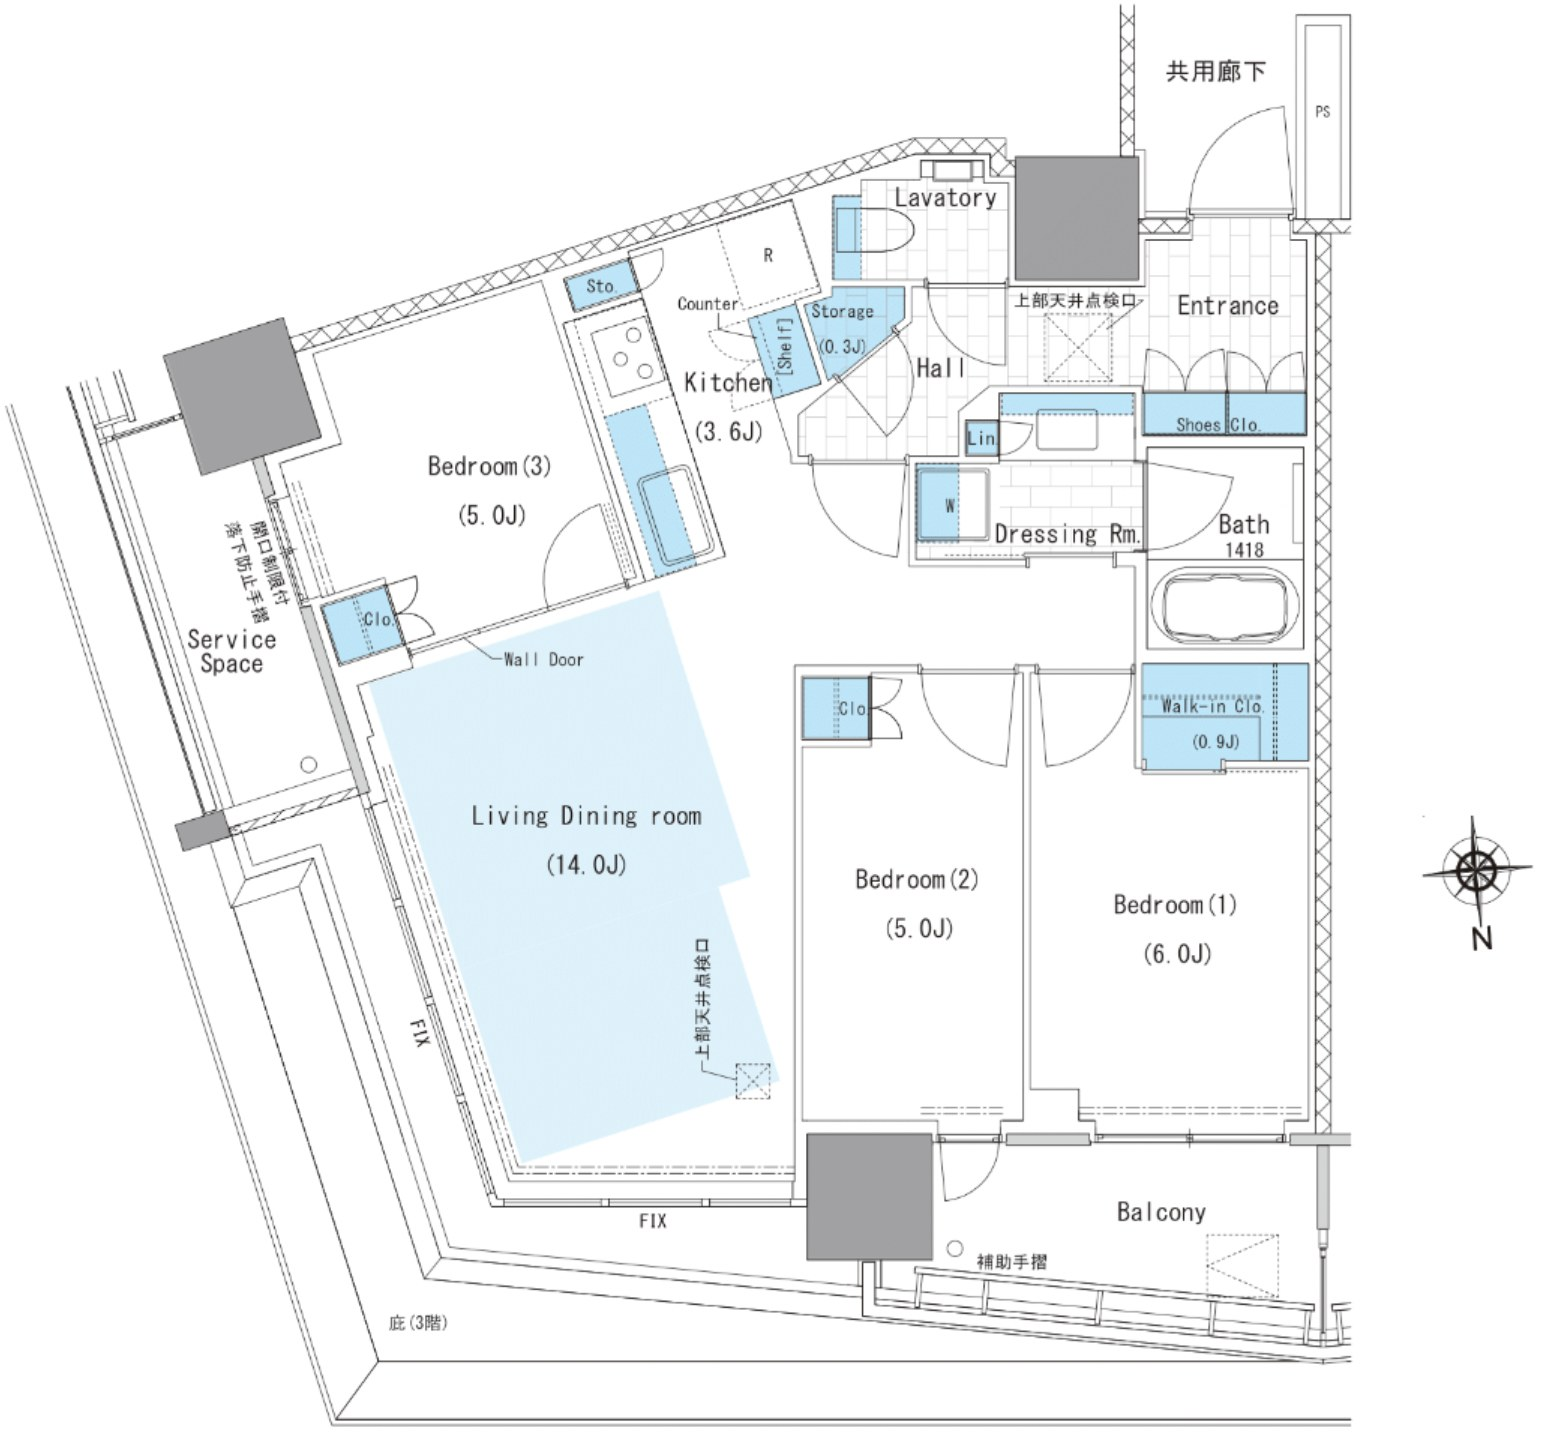
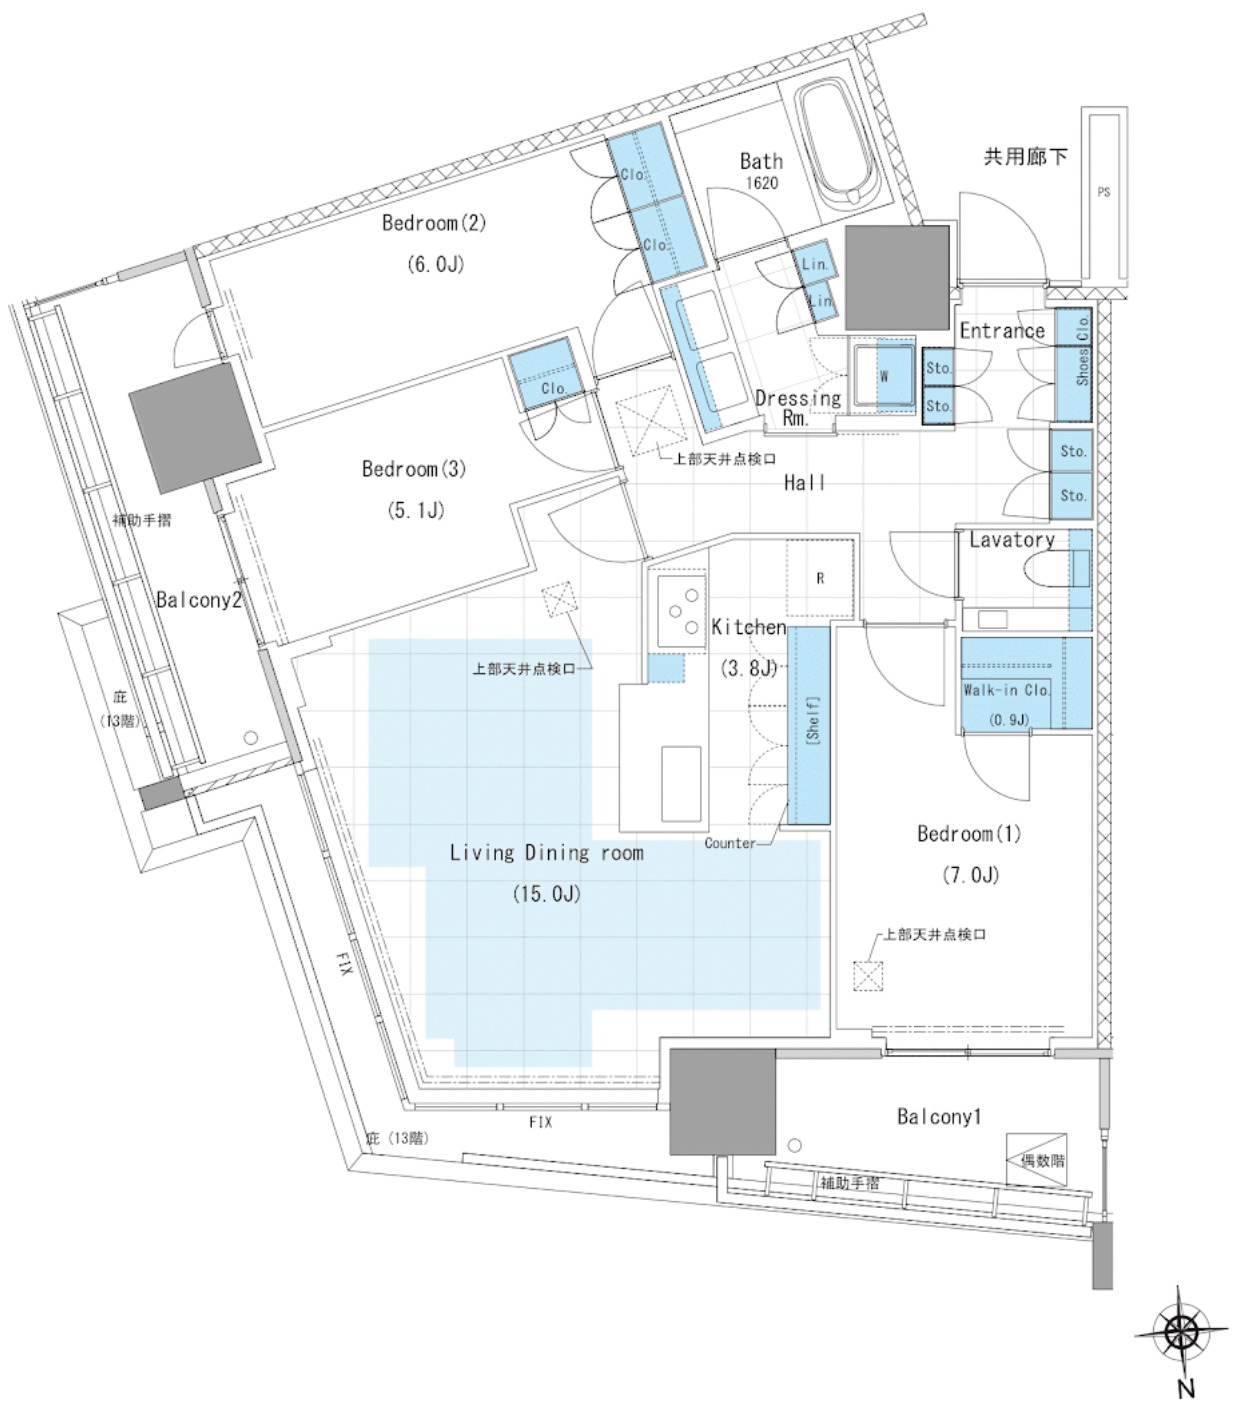
Update site

diff --git a/index.html b/index.html
@@ -559,7 +559,7 @@ figcaption .d{display:none}
       <h2>物件概要</h2>
     </div>
     <div class="grid grid-d2 rv" style="align-items:start">
-      <figure style="background:#fff;padding:14px;border:1px solid #e4dfd6"><img class="ar-auto" src="img/u00_plan2d.jpg" width="1550" height="1436" loading="lazy" alt="間取図"><figcaption><span class="t">間取図</span><span class="d">　3LDK＋WIC</span></figcaption></figure>
+      <figure style="background:#fff;padding:14px;border:1px solid #e4dfd6"><img class="ar-auto" src="img/u00_plan2d.jpg" width="1240" height="1410" loading="lazy" alt="間取図"><figcaption><span class="t">間取図</span><span class="d">　3LDK＋WIC</span></figcaption></figure>
       <div>
         <table class="tbl">
           <tr><th>物件名</th><td>リビオタワー品川　3024号室</td></tr>
